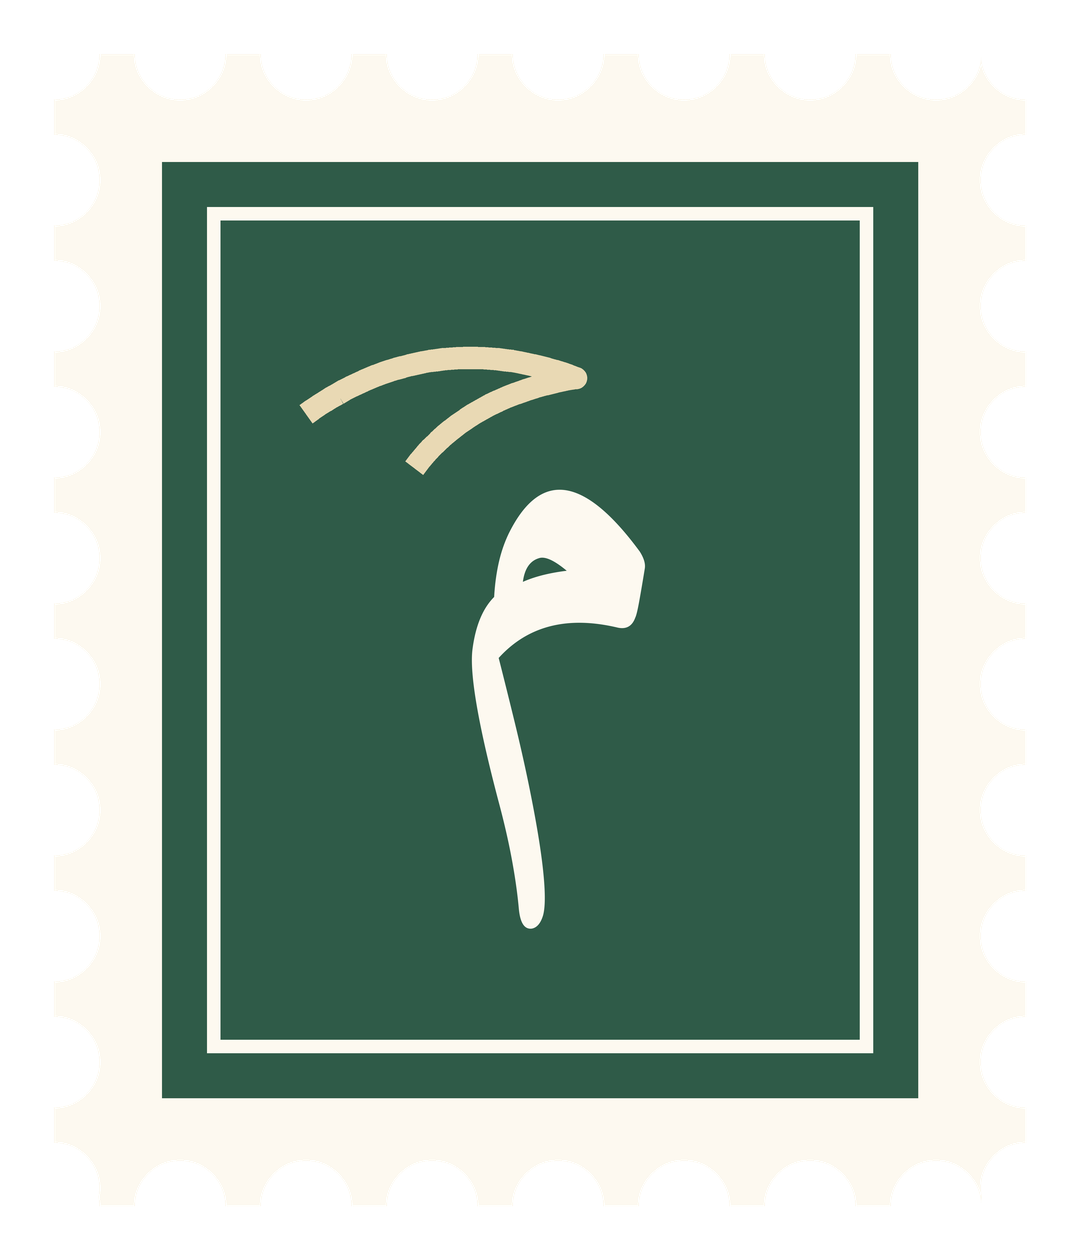
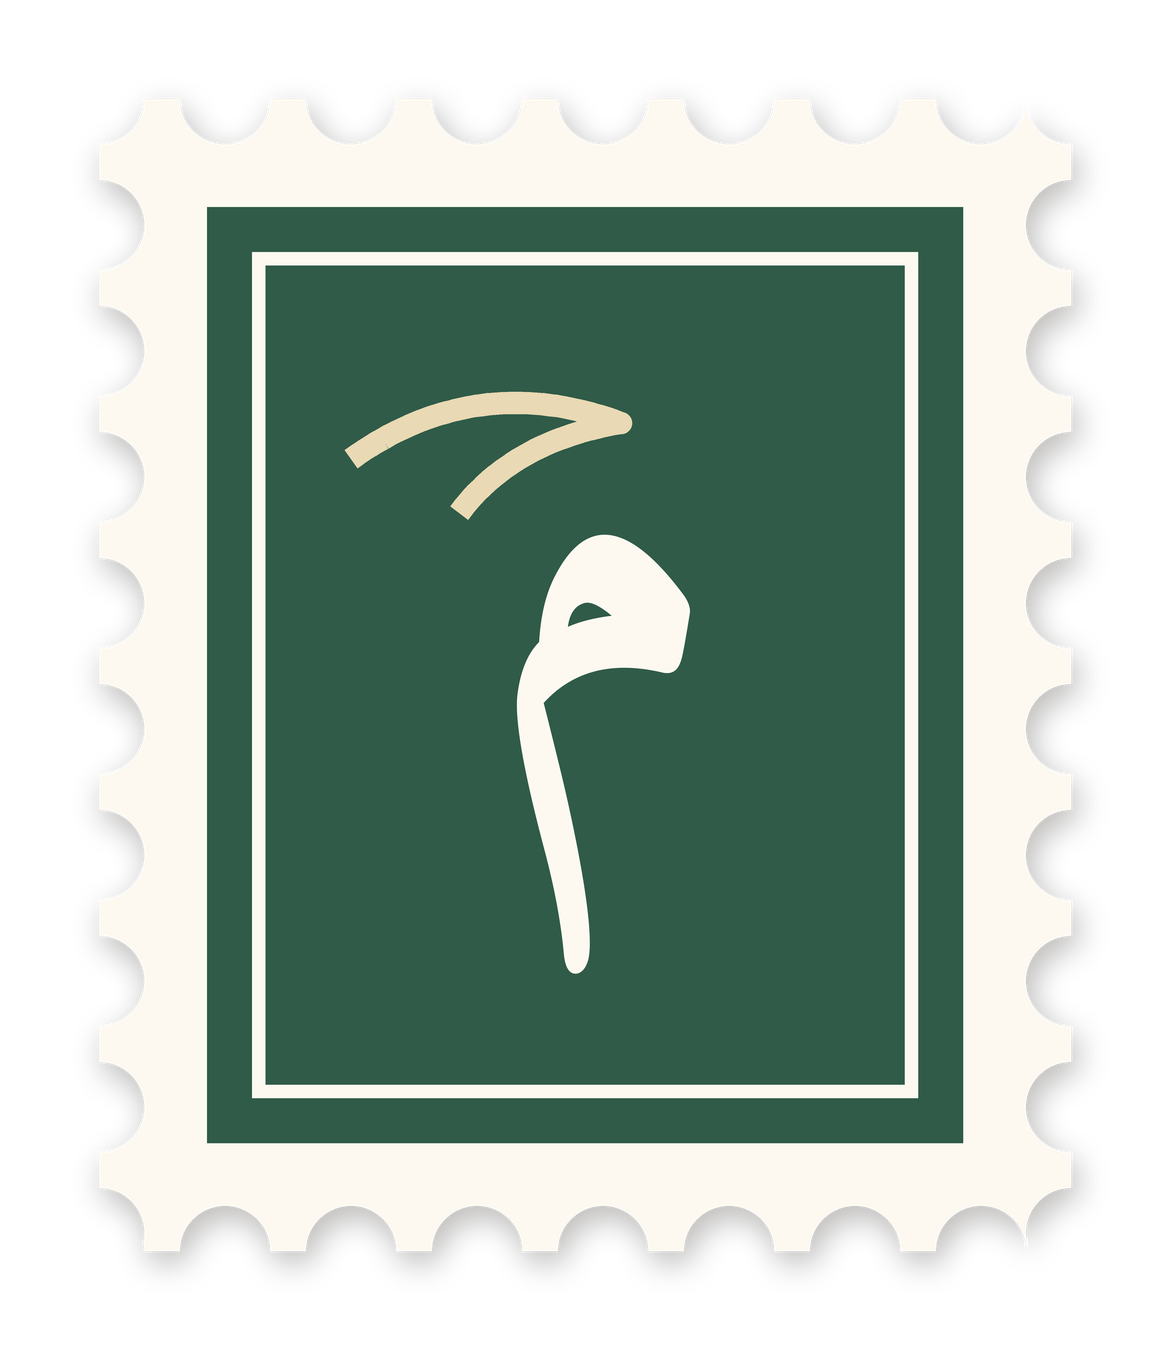
style: one back control in the composer; soft shadow under the stamp mark
The composer keeps only the native header's back (the in-screen link went);
Maestro flows use the system back. The stamp mark PNG gains a soft ink shadow
so its perforations read on cream.

diff --git a/mobile/app/compose/[id].tsx b/mobile/app/compose/[id].tsx
@@ -259,8 +259,9 @@ export default function ComposeScreen() {
   return (
     <ScrollView
       testID="compose-screen"
-      // The desk toolbar (third child) stays on screen while the letter scrolls under it.
-      stickyHeaderIndices={[2]}
+      // The desk toolbar (second child, after the recipient row) stays on screen while the letter
+      // scrolls under it. Back is the native header's (one back control; Phase 13 visual QA).
+      stickyHeaderIndices={[1]}
       scrollEventThrottle={32}
       onScroll={(e) => {
         scrollY.current = e.nativeEvent.contentOffset.y;
@@ -268,20 +269,6 @@ export default function ComposeScreen() {
       contentContainerStyle={{ padding: spacing.lg, gap: spacing.md, flexGrow: 1 }}
       style={{ backgroundColor: colors.background }}
     >
-      <Pressable
-        testID="compose-back"
-        accessibilityRole="button"
-        onPress={() => router.back()}
-        style={{
-          flexDirection: 'row',
-          alignItems: 'center',
-          gap: spacing.xs,
-          minHeight: MIN_TOUCH_TARGET,
-        }}
-      >
-        <DirectionalIcon name="chevron-back" size={18} color={colors.primary} />
-        <AppText style={{ color: colors.primary }}>{t('tabs.drafts')}</AppText>
-      </Pressable>
       {isReply ? (
         <AppText testID="compose-reply-recipient" variant="muted">
           {t('compose.replyRecipient')}

diff --git a/mobile/__tests__/compose.test.tsx b/mobile/__tests__/compose.test.tsx
@@ -1,4 +1,5 @@
-import { fireEvent, screen, waitFor } from 'expo-router/testing-library';
+import { act, fireEvent, screen, waitFor } from 'expo-router/testing-library';
+import { router } from 'expo-router';
 import { Alert } from 'react-native';
 
 import { renderShellIn } from './helpers/renderShell';
@@ -29,7 +30,7 @@ describe('compose (drafts)', () => {
       { timeout: 2000 },
     );
 
-    await fireEvent.press(screen.getByTestId('compose-back'));
+    await act(async () => router.back()); // the native header's back (one back control, Phase 13)
     await waitFor(() => expect(screen.getByTestId('drafts-screen')).toBeTruthy());
     await waitFor(() => expect(screen.getByText('My subject')).toBeTruthy(), { timeout: 2000 });
     expect(screen.getByText('My body')).toBeTruthy();

diff --git a/mobile/src/components/BrandMark.tsx b/mobile/src/components/BrandMark.tsx
@@ -13,7 +13,8 @@ import { AppText } from './AppText';
  * tools/brand/generate_brand.py.
  */
 const STAMP_MARK = require('../../assets/brand/stamp-mark.png');
-const STAMP_ASPECT = 140 / 120;
+// The PNG is 130 x 150 design units: the 120 x 140 stamp plus a 5-unit shadow margin.
+const STAMP_ASPECT = 150 / 130;
 
 export function BrandMark({
   size = 'large',
@@ -39,8 +40,8 @@ export function BrandMark({
         accessible={false}
         importantForAccessibility="no"
         style={{
-          width: big ? 76 : 44,
-          height: Math.round((big ? 76 : 44) * STAMP_ASPECT),
+          width: big ? 82 : 48,
+          height: Math.round((big ? 82 : 48) * STAMP_ASPECT),
           marginBottom: big ? spacing.sm : spacing.xs,
         }}
       />

diff --git a/tools/brand/generate_brand.py b/tools/brand/generate_brand.py
@@ -5,7 +5,7 @@ the letter م in Amiri Bold, and a small dove-wing stroke. Palette B colours (DE
 
 Run from the repo root:  python tools/brand/generate_brand.py
 Outputs (deterministic):
-  mobile/assets/brand/stamp-mark.png   1080 x 1260, transparent (in-app mark, splash source)
+  mobile/assets/brand/stamp-mark.png   1170 x 1350, transparent with a soft shadow (in-app mark)
   mobile/assets/brand/stamp-mark.svg   vector master (same geometry; text needs Amiri installed)
 The final launcher icon, notification icon and splash are produced from this mark only after the
 Phase 13 visual QA (owner's sequencing, 2026-10-03).
@@ -15,7 +15,7 @@ from __future__ import annotations
 
 import os
 
-from PIL import Image, ImageChops, ImageDraw, ImageFont
+from PIL import Image, ImageChops, ImageDraw, ImageFilter, ImageFont
 
 ROOT = os.path.join(os.path.dirname(__file__), "..", "..")
 OUT = os.path.join(ROOT, "mobile", "assets", "brand")
@@ -28,6 +28,8 @@ WING = (233, 217, 180, 255)
 # Geometry in the 120 x 140 design units of the SVG master.
 W, H = 120, 140
 PERF_R, PERF_STEP, EDGE = 5, 14, 6
+# Transparent margin around the PNG for the drop shadow (design units).
+PAD = 5
 
 
 def perforation_centres():
@@ -76,7 +78,19 @@ def render_png(scale: int) -> Image.Image:
         y = (1 - t) ** 2 * 42 + 2 * (1 - t) * t * 44 + t * t * 52
         pts.append((x * k, y * k))
     d.line(pts, fill=WING, width=int(2.5 * k), joint="curve")
-    return img.resize((W * scale, H * scale), Image.LANCZOS)
+    # A soft ink shadow under the stamp so the ivory perforations read on cream (Phase 13 visual QA);
+    # on the dark theme it disappears into the ground. The canvas gains PAD units on every side.
+    pad = PAD * k
+    out = Image.new("RGBA", (img.width + 2 * pad, img.height + 2 * pad), (0, 0, 0, 0))
+    alpha = img.getchannel("A").point(lambda v: int(v * 0.30))
+    shadow = Image.new("RGBA", img.size, (43, 35, 28, 0))
+    shadow.putalpha(alpha)
+    shadow_layer = Image.new("RGBA", out.size, (0, 0, 0, 0))
+    shadow_layer.alpha_composite(shadow, (pad + int(0.6 * k), pad + int(1.2 * k)))
+    shadow_layer = shadow_layer.filter(ImageFilter.GaussianBlur(1.6 * k))
+    out.alpha_composite(shadow_layer)
+    out.alpha_composite(img, (pad, pad))
+    return out.resize(((W + 2 * PAD) * scale, (H + 2 * PAD) * scale), Image.LANCZOS)
 
 
 def svg() -> str:
